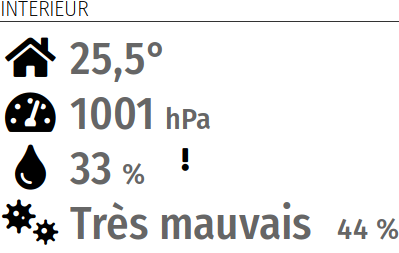
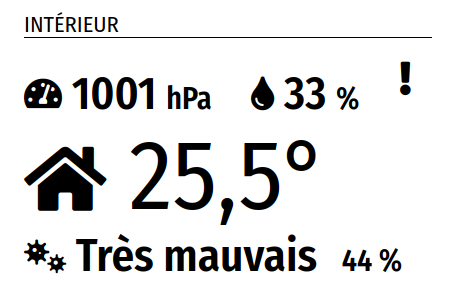
Applied style like the weather module + global formatting

diff --git a/node_helper.js b/node_helper.js
@@ -14,7 +14,7 @@ module.exports = NodeHelper.create({
 	bme680: undefined,
 	isInitialized: false,
 
-	initializeSensor: function(config) {
+	initializeSensor: function (config) {
 		if (!this.config.mock) {
 			this.bme680 = new Bme680(1, this.config.i2cAddress);
 			this.bme680.initialize();
@@ -34,7 +34,7 @@ module.exports = NodeHelper.create({
 			if (!this.config.mock) {
 				data = await this.bme680.getSensorData();
 			} else {
-				data.data = {temperature: 25.5, humidity: 33.3, pressure: 1000.5, gas_resistance: 100000};
+				data.data = { temperature: 25.52, humidity: 33.3, pressure: 1000.5, gas_resistance: 100000 };
 			}
 			data.data.iaq = this.computeIAQ(data.data);
 			data.data.iaq_level = this.getIAQLevel(data.data.iaq);
@@ -50,9 +50,9 @@ module.exports = NodeHelper.create({
 		let humidity_score, gas_score;
 
 		// Calculate humidity contribution to IAQ index
-		const  current_humidity = data.humidity;
+		const current_humidity = data.humidity;
 		const hum_reference = 40.0;
-		const hum_tolerance = hum_reference * 0.05 ;
+		const hum_tolerance = hum_reference * 0.05;
 		if (current_humidity >= hum_reference - hum_tolerance && current_humidity <= hum_reference + hum_tolerance) { // Humidity +/-5% around optimum
 			humidity_score = hum_weighting * 100;
 		} else { // Humidity is sub-optimal
@@ -64,7 +64,7 @@ module.exports = NodeHelper.create({
 		}
 
 		// Calculate gas contribution to IAQ index
-		const  gas_reference = data.gas_resistance;
+		const gas_reference = data.gas_resistance;
 		// values from experimentation
 		const gas_lower_limit = 10000;  // Bad air quality limit
 		const gas_upper_limit = 300000; // Good air quality limit
@@ -82,8 +82,8 @@ module.exports = NodeHelper.create({
 	},
 
 	// 0 : Good to 5 : worst
-	getIAQLevel: function(iaq) {
-		if (typeof iaq !== 'number') {
+	getIAQLevel: function (iaq) {
+		if (typeof iaq !== "number") {
 			return undefined;
 		}
 		if (iaq > 90) {
@@ -101,11 +101,11 @@ module.exports = NodeHelper.create({
 	},
 
 	// Override socketNotificationReceived method.
-	socketNotificationReceived: function(notification, payload) {
+	socketNotificationReceived: function (notification, payload) {
 		if (notification === "CONFIG") {
 			if (!this.isInitialized) {
-				this.config = payload;	
-				this.initializeSensor();	
+				this.config = payload;
+				this.initializeSensor();
 			} else {
 				Log.info("BM680 is already initialized");
 				this.update();

diff --git a/MMM-Bosch-BME680-sensor.js b/MMM-Bosch-BME680-sensor.js
@@ -34,7 +34,7 @@ Module.register("MMM-Bosch-BME680-sensor", {
 	},
 
 	// Load translations files
-	getTranslations: function() {
+	getTranslations: function () {
 		return {
 			en: "translations/en.json",
 			fr: "translations/fr.json"
@@ -43,13 +43,13 @@ Module.register("MMM-Bosch-BME680-sensor", {
 
 	getTemplateData: function () {
 		if (this.dataSensors !== undefined) {
-			return {indoor: this.dataSensors};
+			return { indoor: this.dataSensors };
 		} else {
-			return {nodata: true};
+			return { nodata: true };
 		}
 	},
 
-	processData: async function(data) {
+	processData: async function (data) {
 		this.sendNotification("INDOOR_TEMPERATURE", data.temperature);
 		this.sendNotification("INDOOR_HUMIDITY", data.humidity);
 		this.sendNotification("INDOOR_PRESSURE", data.pressure);
@@ -63,7 +63,7 @@ Module.register("MMM-Bosch-BME680-sensor", {
 
 	// socketNotificationReceived from helper
 	socketNotificationReceived: function (notification, payload) {
-		if(notification === "DATA") {
+		if (notification === "DATA") {
 			this.processData(payload);
 		}
 	},
@@ -73,6 +73,14 @@ Module.register("MMM-Bosch-BME680-sensor", {
 			"roundValue",
 			function (value) {
 				const roundValue = parseFloat(value).toFixed(0);
+				return roundValue === "-0" ? 0 : roundValue;
+			}.bind(this)
+		);
+
+		this.nunjucksEnvironment().addFilter(
+			"roundValue1dec",
+			function (value) {
+				const roundValue = parseFloat(value).toFixed(1);
 				return roundValue === "-0" ? 0 : roundValue;
 			}.bind(this)
 		);

diff --git a/MMM-Bosch-BME680-sensor.css b/MMM-Bosch-BME680-sensor.css
@@ -6,13 +6,9 @@
  * MIT Licensed.
  *
  */
-.MMM-Bosch-BME680-sensor .container {
-	display: block;
-	/*margin-inline-start: 4rem;*/
-}
-
 .MMM-Bosch-BME680-sensor .sensor-unit {
 	font-size: 1rem;
+	padding-inline-end: 1rem;
 }
 
 .MMM-Bosch-BME680-sensor .iaq-value {
@@ -20,11 +16,13 @@
 	margin-inline-start: 0.5rem;
 }
 
-.MMM-Bosch-BME680-sensor .icon {
-	min-width: 2rem;
-	text-align: center;
-}
-
 .MMM-Bosch-BME680-sensor span:not(.icon) {
 	color: var(--color-text-bright);
+}
+
+.MMM-Bosch-BME680-sensor .icon {
+	font-size: 75%;
+	line-height: 65px;
+	display: inline-block;
+	transform: translate(0, -3px);
 }
